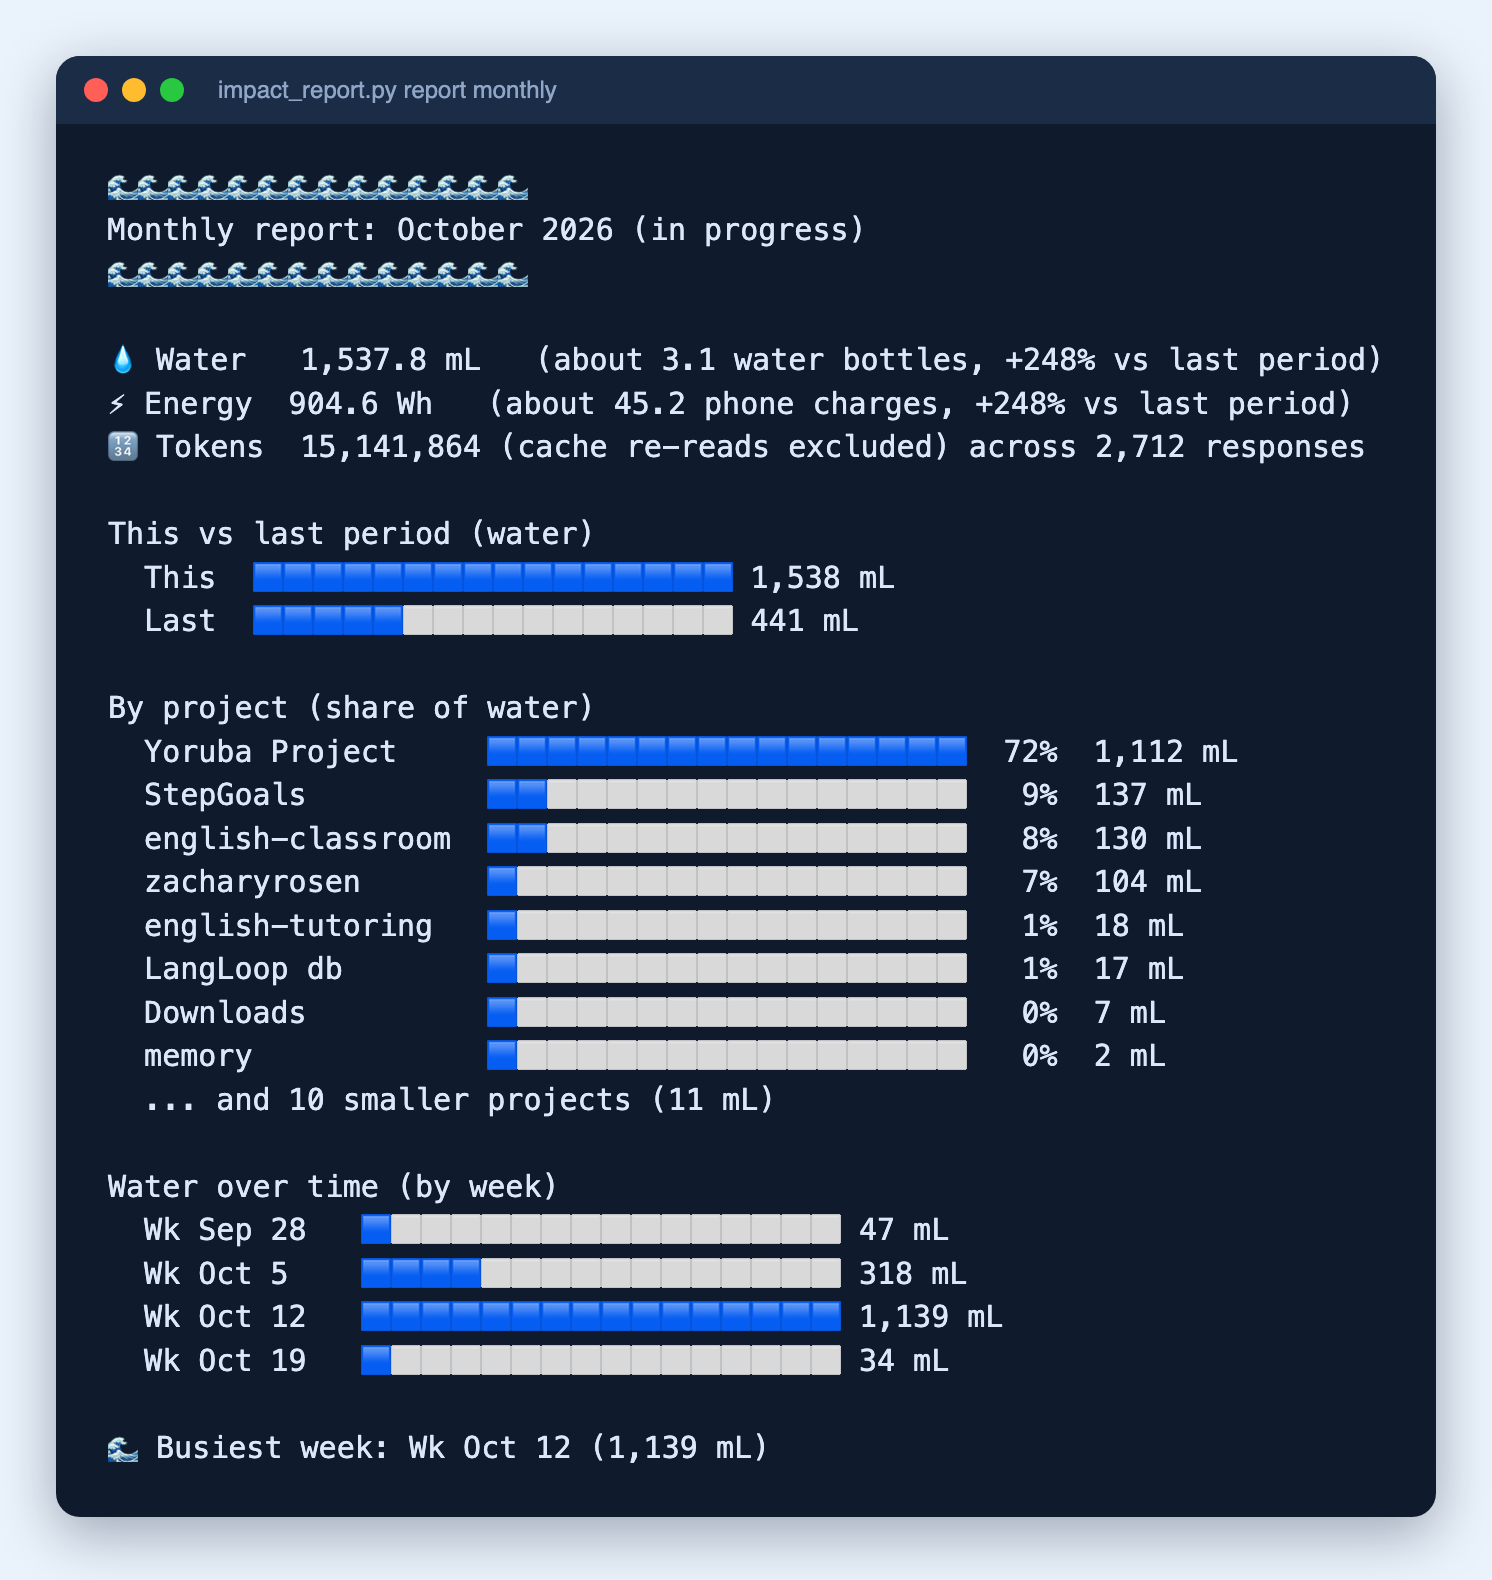
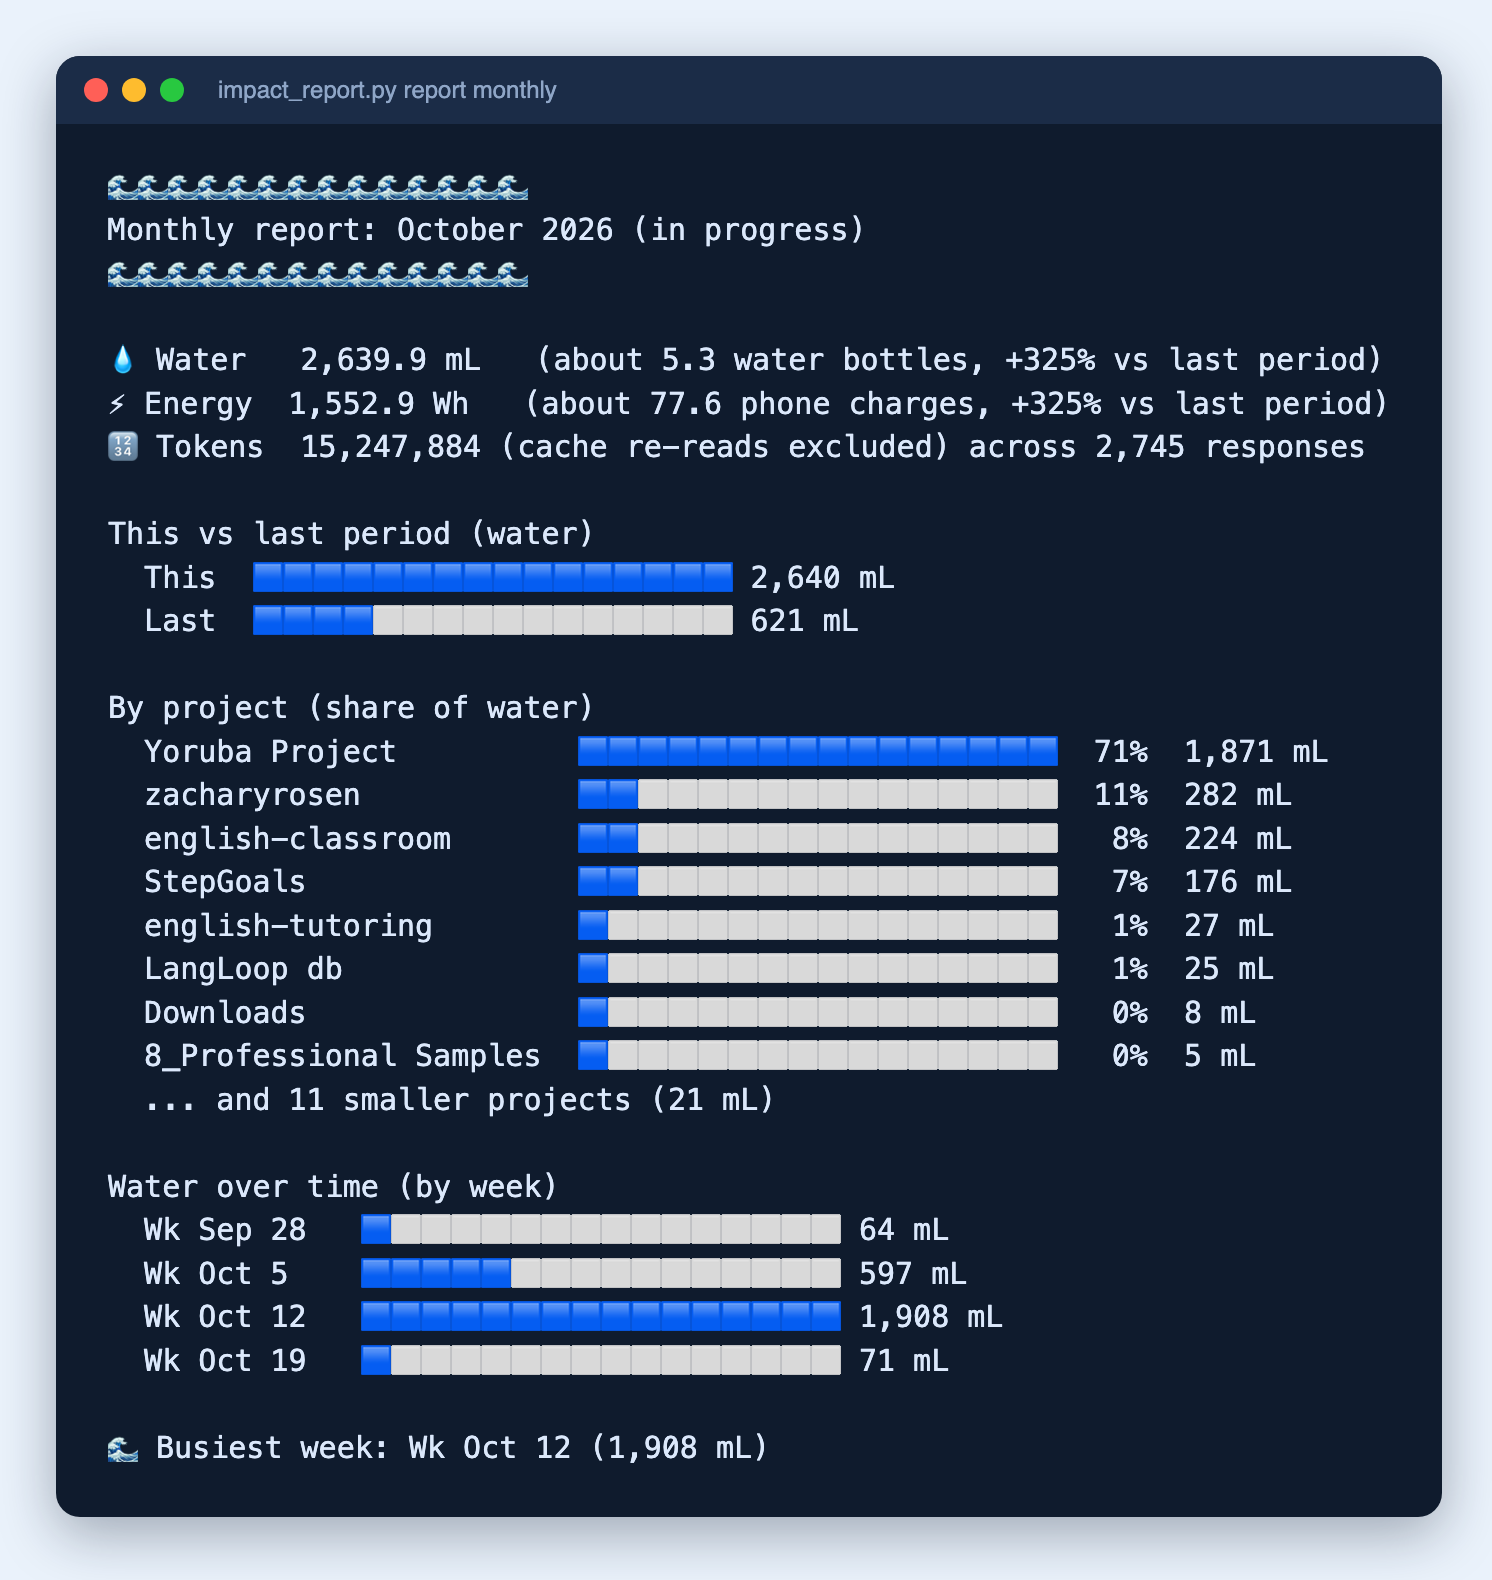
Release v1.5.0: mid-level energy estimates, newer sources

diff --git a/scripts/impact_hook.py b/scripts/impact_hook.py
@@ -26,11 +26,13 @@ STATE = os.path.join(HOME, ".claude", "environmental-impact-tracker.state")
 PROJECTS = os.path.join(HOME, ".claude", "projects")
 
 # model: (fixed overhead Wh/query, marginal input, marginal output, large-context blended) Wh/MTok
+# Typical-tier values are mid-level estimates: 3x the optimized-serving derivation (Joule 2026),
+# about the geometric midpoint to measured Claude benchmarks (arXiv 2505.09598). See references/sources.md.
 RATES = {
-    "fable": (0.177, 90, 447, 35),
-    "opus": (0.088, 45, 223, 18),
-    "sonnet": (0.053, 27, 134, 11),
-    "haiku": (0.018, 9, 45, 4),
+    "fable": (0.531, 270, 1341, 35),
+    "opus": (0.264, 135, 669, 18),
+    "sonnet": (0.159, 81, 402, 11),
+    "haiku": (0.054, 27, 135, 4),
 }
 LARGE_CONTEXT = 50_000
 DISPLAY_THRESHOLD = 5_000

diff --git a/references/sources.md b/references/sources.md
@@ -11,6 +11,12 @@
 | *Energy use of AI inference, efficiency pathways, and test-time scaling*, Joule (2026), cell.com/joule/fulltext/S2542-4351(26)00114-5 | Peer-reviewed measured per-query energy for optimized frontier-scale inference (median 0.31 Wh, IQR 0.16–0.60 Wh), a stronger source tier than the derived-ratio approach below. Not yet integrated into the per-token rate table (see Update Log) |
 | *How Hungry is AI? Benchmarking Energy, Water, and Carbon Footprint of LLM Inference*, arXiv 2505.09598 | Direct joint benchmarking of energy, water, and carbon footprint per inference; defines the "short-form" (100 in / 300 out), "medium" (1,000 in / 1,000 out), and "long-form" (10,000 in / 1,500 out) prompt configs used as the query-length anchor below |
 | Third-party estimate (public gist, not peer-reviewed), Opus 4.7, 800K-token context, ~14.1 Wh/query vs. ~0.7 Wh for a short chat | Single-data-point anchor for the long-context marginal rate; flagged low-confidence, see Methodology below |
+| Google, *Measuring the environmental impact of delivering AI at Google Scale* (2025); coverage: towardsdatascience.com/is-googles-reveal-of-geminis-impact-progress-or-greenwashing | Median Gemini text prompt: 0.24 Wh, 0.26 mL (on-site cooling water only; critics estimate about 1.6 mL with power-plant water) |
+| *How Hungry is AI?* Claude 3.7 Sonnet results (same arXiv 2505.09598), measured on AWS | Only measured Claude figures found: about 0.84 Wh (short prompt), 2.78 Wh (medium). Roughly 9x and 13x above the optimized-serving derivation, which motivated the mid-level scaling below |
+| Simon P. Couch, *Electricity use of AI coding agents* (2026), simonpcouch.com/blog/2026-01-20-cc-impact/ | About 0.5 mWh per output token for Sonnet-class models, Opus x1.67, Haiku x0.33. Higher than this skill's output rate; a cross-check on tier ratios |
+| Dodkins, *Claude Code Energy Use Estimate* (gist, 2026-03-09), gist.github.com/mdodkins/9b49624855cc41570c9d1012e0d5d157 | Claude Code energy estimate; same family as the long-context anchor above |
+| Mistral life-cycle assessment with Carbone 4 and ADEME (2025) | 45 mL of water per 400-token response including server manufacturing; shows how much the boundary matters |
+| Sam Altman blog post (2025) | Claims about 0.34 Wh per ChatGPT query; no method given, so context only |
 
 **Confidence level:** Rates are estimates derived from public compute benchmarks, pricing signals, and (as of 2026-09-03) one peer-reviewed measurement, not Anthropic-published energy figures. If Anthropic releases official per-token energy data, update the table and note the source change.
 
@@ -25,6 +31,10 @@ Prior versions of this skill used a single flat Wh/MTok rate per model, scaled f
 **Tier scaling.** Both `B` and `m` are scaled to Opus/Haiku/Fable using the existing 5:3:1 pricing ratio (Fable at 2x Opus), same as prior revisions. This assumes overhead and marginal cost scale with model size in the same proportion pricing does, which is unverified but consistent with the rest of the table's methodology.
 
 **Why a second, large-context tier exists.** Extrapolating the above formula to a real-world 800K-token long-context call (Opus-tier, ~14.1 Wh actual per the gist estimate) overpredicts by roughly 10x (~172 Wh predicted). This is a real signal, not noise: long-context inference is almost certainly meaningfully more efficient per token (KV-cache reuse, batching, attention optimizations) than short/medium queries. Rather than force one formula to cover both regimes, turns above 50,000 total tokens use a separate marginal rate anchored directly to the 800K data point (with fixed overhead treated as negligible at that scale). **This anchor is a single non-peer-reviewed estimate: the lowest-confidence number in this skill.** There is no data between ~30,000 tokens (the top of Joule's own test-time-scaling measurement) and 800,000 tokens; 50,000 is a pragmatic switchover point in that gap, not itself measured. Revisit if a source with intermediate long-context measurements turns up.
+
+## Mid-level scaling (added 2026-10-19)
+
+The 2026-09-03 derivation anchors to optimized frontier-scale serving (Joule 2026). Measured Claude 3.7 Sonnet results in *How Hungry is AI?* are roughly 9x (short prompt) and 13x (medium prompt) higher, and Couch's per-token output estimate is about 4x higher. Rather than pick either end, the typical-tier rates (fixed overhead, marginal input, marginal output) are now **3x** the derived values, close to the geometric midpoint of the two. For Sonnet this gives about 0.29 Wh for a short prompt (100 in / 300 out) and 0.64 Wh for a medium prompt (1,000 in / 1,000 out), against 0.1 and 0.2 Wh before and 0.84 and 2.78 Wh measured. The large-context rate is unchanged: it is anchored to a separate single data point and 3x would overshoot it. The 5:3:1 tier ratios are unchanged. No source gives numbers for the Claude 5-series models, so all of this remains an estimate.
 
 ## How to Update
 
@@ -46,3 +56,4 @@ To find updated rates: search Epoch AI's compute benchmarks, Anthropic's sustain
 - **2026-09-03**: Empirically tested the four "ask directly" trigger phrases from the README's Usage section against four independent, fresh Claude instances (no prior context, no instruction to use this skill). Result: 0 of 4 autonomously invoked the skill. "Session total" / "week's impact" / "project's total" were judged too ambiguous against other plausible meanings (billing, task counts, product metrics). "What was the environmental impact of that?" (a near-verbatim match for this skill's own trigger description) was still declined: the test instance recognized the skill existed but reasoned that reporting a specific Wh/mL number without real per-request telemetry would look like fabricating precision, and chose not to invoke the skill on that basis. Rewrote the README Usage section and added a note in `SKILL.md`'s "When to Display" section to stop overclaiming soft-phrase reliability and point users to the `CLAUDE.md` enforcement rule as the actually-reliable trigger.
 - **2026-09-03**: Removed the fixed "reviewed every 2 months" cadence claim from the README; this repo is updated on triggering events (new model, new research), not a calendar promise. Also removed em dashes from prose throughout `README.md`, `SKILL.md`, and this file for a plainer writing style.
 - **2026-09-03**: Added an on/off toggle (`~/.claude/environmental-impact-tracker.state`) so automatic firing can be disabled without uninstalling the skill or hand-editing `CLAUDE.md`. The rule text in `SKILL.md`'s Setup section and the README's Usage/Setup sections were updated to check this file before displaying. Also added a README Setup section: the `CLAUDE.md` rule and log file steps were previously documented only inside `SKILL.md`, invisible to anyone reading the repo on GitHub rather than installing the skill directly.
+- **2026-10-19**: Searched for new research. Found no Anthropic-published figures and nothing specific to the Claude 5-series. Added the sources above (Google's Gemini disclosure, Claude 3.7 Sonnet benchmark results, Couch, the Claude Code gist, Mistral's LCA, Altman's claim). Moved the typical-tier rates to a mid-level estimate (3x, see Mid-level scaling). Existing log entries were recalculated from transcripts at the new rates (backup: `~/.claude/environmental-impact-log.pre-mid.json`). Version 1.5.0.

diff --git a/README.md b/README.md
@@ -1,6 +1,6 @@
 # Environmental Impact Tracker
 
-**v1.4.0**
+**v1.5.0**
 
 A Claude Code skill that calculates and displays the environmental footprint of your AI interactions, translating abstract token usage into energy consumption (Wh), water usage (mL), and relatable real-world comparisons.
 
@@ -31,15 +31,15 @@ Ask Claude for the longer display of any exchange and you get:
 ```
 🌍 Environmental Impact of This Response
 
-Energy: 19.36 Wh (about 1 phone charge)
-Water:  32.90 mL (about 2 tablespoons)
+Energy: 58.07 Wh (about 3 phone charges)
+Water:  98.71 mL (about 6 tablespoons)
 
 Model: Claude Sonnet 5
 Tokens: 25,000 in + 6,000 out + ~2,500 skill = 33,500
 + 136,000 agent tokens across 4 agents = 169,500 total
 
 💡 If a lighter model had been used:
-  Haiku: 6.46 Wh / 10.97 mL  (3.0x less)
+  Haiku: 19.36 Wh / 32.90 mL  (3.0x less)
 
 Note: Estimates. See references/sources.md for methodology.
 ```
@@ -142,10 +142,12 @@ Each query pays a **fixed per-query overhead** (routing/model load, independent 
 
 | Model | Fixed overhead (Wh/query) | Marginal Input (Wh/MTok) | Marginal Output (Wh/MTok) | Long-context Marginal Blended (Wh/MTok) |
 |-------|------|-------|--------|---------|
-| Claude Fable 5 | 0.177 | 90 | 447 | 35 |
-| Claude Opus 5 | 0.088 | 45 | 223 | 18 |
-| Claude Sonnet 5 | 0.053 | 27 | 134 | 11 |
-| Claude Haiku 4.5 | 0.018 | 9 | 45 | 4 |
+| Claude Fable 5 | 0.531 | 270 | 1,341 | 35 |
+| Claude Opus 5 | 0.264 | 135 | 669 | 18 |
+| Claude Sonnet 5 | 0.159 | 81 | 402 | 11 |
+| Claude Haiku 4.5 | 0.054 | 27 | 135 | 4 |
+
+These are **mid-level estimates**. The typical-tier rates are 3x what Joule's optimized-serving data implies, which lands between that derivation and measured Claude benchmarks (about 9 to 13x higher). For a medium prompt (1,000 in / 1,000 out) Sonnet comes out at about 0.64 Wh, against 0.2 Wh from the optimized derivation and 2.78 Wh measured on Claude 3.7 Sonnet. The long-context rate is unchanged. Anthropic publishes no energy figures and no source covers the Claude 5-series, so treat every number as an estimate.
 
 Water usage: 1.7 mL per Wh (average data center cooling + power generation).
 
@@ -153,29 +155,29 @@ The fixed-overhead/marginal-rate split is derived from a peer-reviewed 2026 Joul
 
 ### Worked example
 
-Using the sample output above: Claude Sonnet 5, 25,000 input + 6,000 output + 2,500 skill-load tokens on the main turn, plus 4 subagents averaging 34,000 tokens each, all under the 50,000-token long-context threshold, so every component uses the typical-tier rates (fixed overhead 0.053 Wh, marginal input 27 Wh/MTok, marginal output 134 Wh/MTok, marginal blended 129 Wh/MTok):
+Using the sample output above: Claude Sonnet 5, 25,000 input + 6,000 output + 2,500 skill-load tokens on the main turn, plus 4 subagents averaging 34,000 tokens each, all under the 50,000-token long-context threshold, so every component uses the typical-tier rates (fixed overhead 0.159 Wh, marginal input 81 Wh/MTok, marginal output 402 Wh/MTok, marginal blended 387 Wh/MTok):
 
 **Main query:**
 ```
-Energy_input  = 25,000 × 27  / 1,000,000 = 0.6750 Wh
-Energy_output =  6,000 × 134 / 1,000,000 = 0.8040 Wh
-Energy_skill  =  2,500 × 27  / 1,000,000 = 0.0675 Wh
-Energy_query  = 0.053 (fixed overhead) + 0.6750 + 0.8040 + 0.0675 = 1.60 Wh
+Energy_input  = 25,000 × 81  / 1,000,000 = 2.0250 Wh
+Energy_output =  6,000 × 402 / 1,000,000 = 2.4120 Wh
+Energy_skill  =  2,500 × 81  / 1,000,000 = 0.2025 Wh
+Energy_query  = 0.159 (fixed overhead) + 2.0250 + 2.4120 + 0.2025 = 4.80 Wh
 ```
 
 **Each subagent** (own fixed overhead, own tier check: 34,000 tokens is under 50,000, so typical-tier blended rate applies):
 ```
-Energy_agent = 0.053 + (34,000 × 129 / 1,000,000) = 0.053 + 4.386 = 4.44 Wh
+Energy_agent = 0.159 + (34,000 × 387 / 1,000,000) = 0.159 + 13.158 = 13.32 Wh
 ```
-Four subagents: `4 × 4.44 = 17.76 Wh`
+Four subagents: `4 × 13.32 = 53.27 Wh`
 
 **Total:**
 ```
-Total_energy = 1.60 (query) + 17.76 (agents) = 19.36 Wh
-Total_water  = 19.36 × 1.7 = 32.9 mL
+Total_energy = 4.80 (query) + 53.27 (agents) = 58.07 Wh
+Total_water  = 58.07 × 1.7 = 98.7 mL
 ```
 
-Notice most of the cost here comes from the four subagents, not the main turn. Each one pays its own 0.053 Wh fixed overhead on top of its marginal token cost, which is exactly the behavior the old flat-rate model couldn't represent: spinning up four separate model invocations has a real, distinct cost from one invocation handling four times the tokens.
+Notice most of the cost here comes from the four subagents, not the main turn. Each one pays its own 0.159 Wh fixed overhead on top of its marginal token cost, which is exactly the behavior the old flat-rate model couldn't represent: spinning up four separate model invocations has a real, distinct cost from one invocation handling four times the tokens.
 
 > **Note:** These are estimates derived from public benchmarks and pricing signals, not official Anthropic energy figures. Actual consumption varies by data center location, cooling method, and grid energy mix.
 
@@ -184,6 +186,10 @@ Notice most of the cost here comes from the four subagents, not the main turn. E
 This repo is maintained on an ongoing basis, not a one-time drop. Rates are updated whenever a major new Claude model ships or new peer-reviewed research on LLM inference energy/water use is published. See the Update Log in `references/sources.md` for the full history of what changed and why, and follow the instructions there when you do update it.
 
 ## Changelog
+
+**1.5.0** (2026-10-19)
+- Moved the typical-tier rates to a mid-level estimate (3x the previous optimized-serving values), because measured Claude benchmarks and other published estimates run well above the old figures. The large-context rate is unchanged. Reports now read higher than under 1.4.0, most for short-response work
+- Added newer sources to `references/sources.md`: Google's Gemini disclosure, measured Claude 3.7 Sonnet results, and two Claude Code analyses. Anthropic still publishes no figures for any Claude model
 
 **1.4.0** (2026-10-19)
 - Tracking is now automatic: a Stop hook logs every response (subagents included) from Claude Code's transcripts, replacing logging that depended on Claude choosing to display impact. Prevents undercounting. 

diff --git a/SKILL.md b/SKILL.md
@@ -1,12 +1,12 @@
 ---
 name: environmental-impact-tracker
-version: 1.4.0
+version: 1.5.0
 description: Calculates and displays the environmental footprint of Claude's token usage, translating computational costs into energy consumption (Wh), water usage (mL), and relatable real-world comparisons. Use when: (1) a single request/response exceeds 5,000 tokens, (2) completing a complex task like coding, document generation, or research, (3) the user asks about environmental impact, energy use, or sustainability, (4) tracking cumulative session, weekly, or project totals when requested, (5) the user asks for a weekly, monthly, quarterly, or annual environmental impact report (e.g. "monthly impact report", "Q3 environmental report", "last month's footprint").
 ---
 
 # Environmental Impact Tracker
 
-**Version:** 1.4.0 · **Last updated:** 2026-10-19. If today is 6+ months past this date, flag to the user that rates may be stale and read `references/sources.md`.
+**Version:** 1.5.0 · **Last updated:** 2026-10-19. If today is 6+ months past this date, flag to the user that rates may be stale and read `references/sources.md`.
 
 ---
 
@@ -80,11 +80,13 @@ Total_water    (mL) = Total_energy × 1.7
 
 | Model | Fixed overhead (Wh/query) | Marginal Input (Wh/MTok) | Marginal Output (Wh/MTok) | Marginal Blended (Wh/MTok) | Large-Context Marginal Blended (Wh/MTok, >50K tok) |
 |-------|------|-------|--------|---------|---------|
-| Claude Fable 5 | 0.177 | 90 | 447 | 430 | 35 |
-| Claude Opus 5 | 0.088 | 45 | 223 | 215 | 18 |
-| Claude Sonnet 5 | 0.053 | 27 | 134 | 129 | 11 |
-| Claude Haiku 4.5 | 0.018 | 9 | 45 | 43 | 4 |
-| Unknown (use Sonnet) | 0.053 | 27 | 134 | 129 | 11 |
+| Claude Fable 5 | 0.531 | 270 | 1341 | 1290 | 35 |
+| Claude Opus 5 | 0.264 | 135 | 669 | 645 | 18 |
+| Claude Sonnet 5 | 0.159 | 81 | 402 | 387 | 11 |
+| Claude Haiku 4.5 | 0.054 | 27 | 135 | 129 | 4 |
+| Unknown (use Sonnet) | 0.159 | 81 | 402 | 387 | 11 |
+
+These are **mid-level** estimates: the typical-tier rates are 3x the optimized-serving derivation and sit between that derivation and measured Claude benchmarks. The large-context column is unchanged. See `references/sources.md`.
 
 Older generations (Opus/Sonnet/Haiku 4.x and earlier) share the same rate as their current-generation successor in the table above. Anthropic hasn't published per-generation compute deltas, so we hold the rate constant within a tier rather than guess.
 
